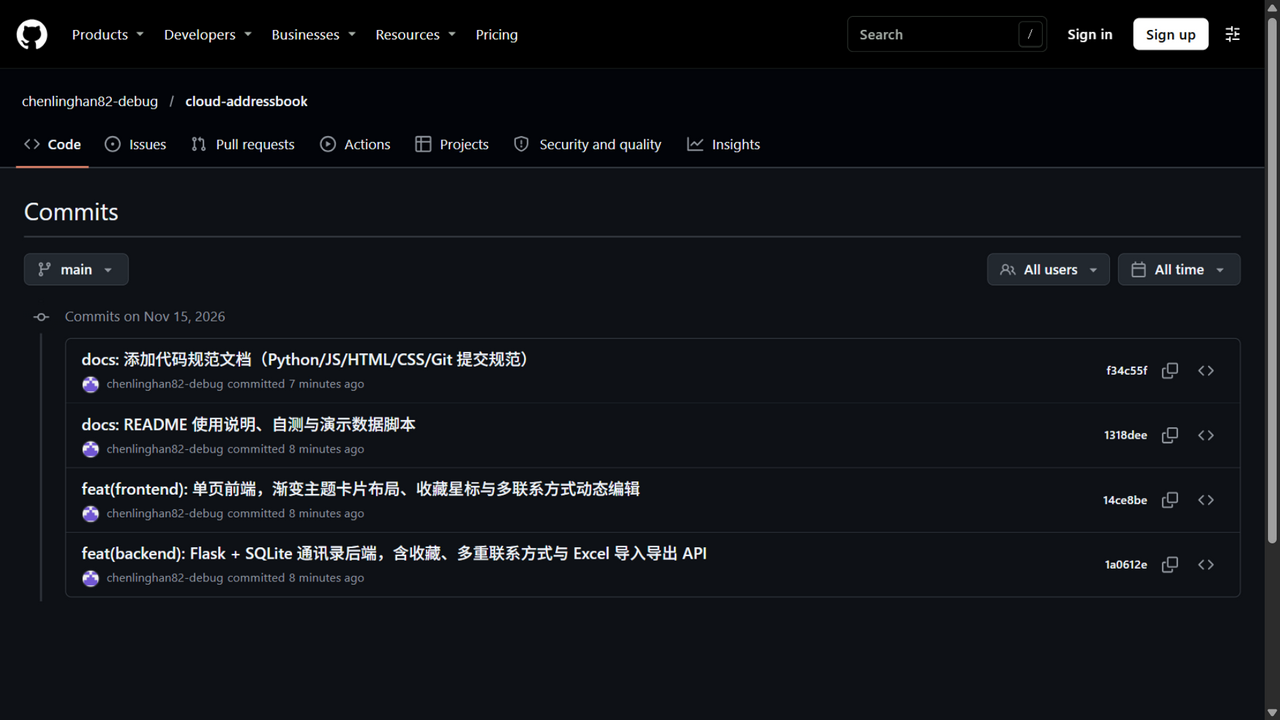
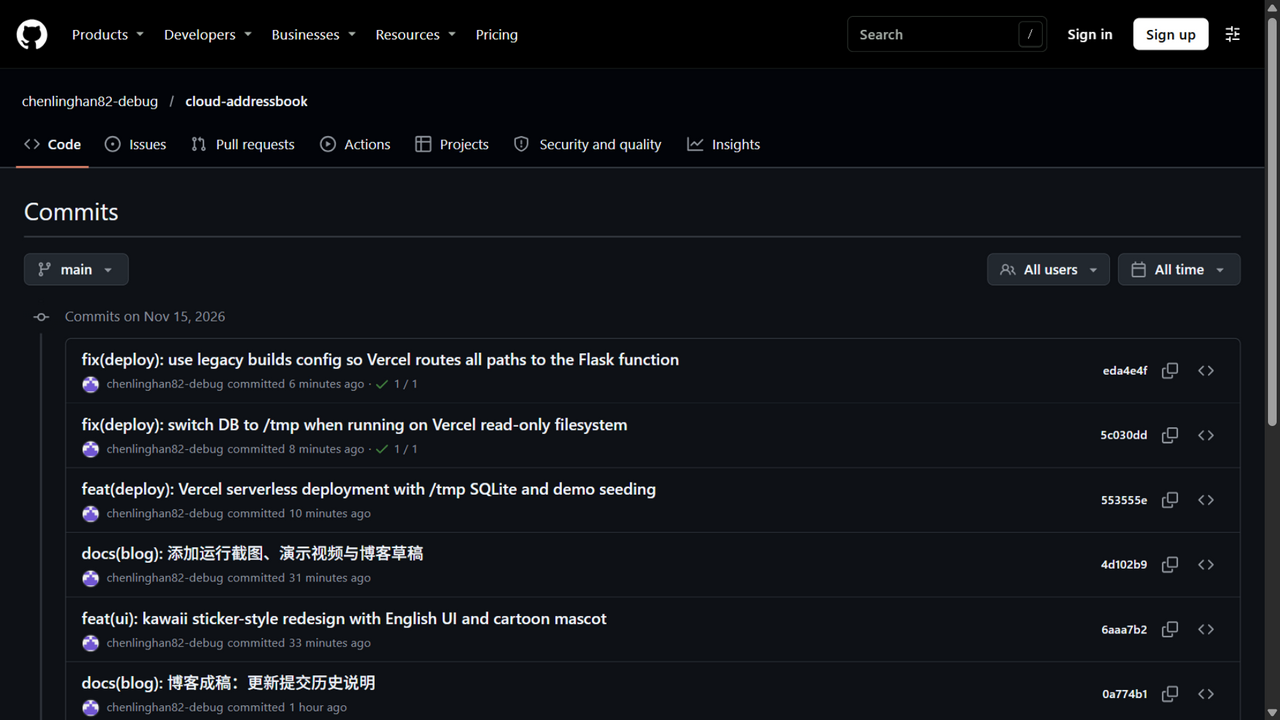
docs(blog): final blog in Assignment-1 style with deployment link

diff --git a/blog/blog.md b/blog/blog.md
@@ -1,83 +1,124 @@
-# Extreme Programming Assignment: Cloud Address Book (Bookmark Contacts · Multiple Contact Methods · Excel Import & Export)
-
-> This assignment is completed individually. This blog records the whole process: requirement analysis, design, coding, testing and review.
+# Software Engineering Assignment 4: Extreme Programming — Cloud Address Book — Chen Linghan 832401201
 
 | Item | Content |
 | --- | --- |
+| Name / Student ID | Chen Linghan 832401201 |
 | Course | Software Engineering (FZU–MU) |
-| Team Name | Individual project (no team) |
-| Assignment Requirements | [Extreme Programming (Deadline: November 17, 2026, 23:59)](https://bbs.csdn.net/topics/620593436) |
-| Objectives of This Assignment | Build a web address book that supports **bookmark contacts**, **multiple contact methods** and **Excel import/export**, and experience the complete Extreme Programming workflow: design → coding → testing → deployment → blog review |
-| Other References | [PEP 8 – Style Guide for Python Code](https://peps.python.org/pep-0008/), [Flask Documentation](https://flask.palletsprojects.com/), [openpyxl Documentation](https://openpyxl.readthedocs.io/) |
+| Assignment Requirement | [Extreme Programming (Deadline: November 17, 2026, 23:59)](https://bbs.csdn.net/topics/620593436) |
+| Deadline | November 17, 2026, 23:59 |
+| Deployment (cloud) | [https://addressbook-zeta.vercel.app](https://addressbook-zeta.vercel.app) |
+| Demo API | [https://addressbook-zeta.vercel.app/api/contacts](https://addressbook-zeta.vercel.app/api/contacts) |
+| GitHub repository | [https://github.com/chenlinghan82-debug/cloud-addressbook](https://github.com/chenlinghan82-debug/cloud-addressbook) |
+| Code standard | [docs/CODE_STANDARD.md](https://github.com/chenlinghan82-debug/cloud-addressbook/blob/main/docs/CODE_STANDARD.md) — follows PEP 8 for Python, Airbnb style for JavaScript, Google style for commit messages |
+| Team | Individual project — all work and commits by Chen Linghan (contribution ratio 100%) |
 
 ## Table of Contents
 
-<!-- CSDN generates the TOC automatically from headings -->
+1. Background and objectives
+2. Requirements
+3. Design and implementation
+4. Technology choices
+5. Finished product
+6. Code explanation
+7. Database design
+8. Tests
+9. Deployment and access
+10. PSP table
+11. Personal summary
+12. References
 
-## 1. Project Address
+## 1. Background and objectives
 
-| Item | Link |
-| --- | --- |
-| GitHub Repository | https://github.com/chenlinghan82-debug/cloud-addressbook |
-| Code Standard | https://github.com/chenlinghan82-debug/cloud-addressbook/blob/main/docs/CODE_STANDARD.md |
-| Local Access | http://127.0.0.1:5000 |
-| Demo Video | See Section 7 (complete running video) |
+This assignment applies **Extreme Programming (XP)** practices to build a web **Cloud Address Book**. The goals are:
 
-## 2. GitHub Commit History
+- Practice the full XP loop: requirement analysis → simple design → small releases → testing → deployment → retrospective.
+- Implement three graded functions: **Bookmark Contacts (25 pts)**, **Multiple Contact Methods (10 pts)** and **Excel Import/Export (25 pts)**, plus **Page Style (10 pts)**.
+- Deploy the finished product to the cloud so it can be used from anywhere.
 
-![GitHub commit history: 4 development commits, all by me](IMG_COMMITS)
+Everything was developed in small commits on GitHub (11 commits at the time of writing, all by me) and deployed to Vercel from the connected repository.
 
-There are **4 commits** during the development stage (see the screenshot above); the screenshots, demo video and blog draft were pushed to the repository later, so the repository contains 6 commits in total. All commits were made by me (**contribution ratio: 100%**):
+## 2. Requirements
 
-| Commit | Content |
-| --- | --- |
-| `feat(backend)` | Flask + SQLite address book backend: bookmark, multiple contact methods and Excel import/export APIs |
-| `feat(frontend)` | Single-page frontend with gradient theme, card layout, favorite star and dynamic multi-contact editing |
-| `docs` | README usage guide, self-test and demo data scripts |
-| `docs` | Code standard document |
+### 2.1 Required functions
 
-## 3. Requirement Analysis & Technology Stack
-
-### 3.1 Feature Breakdown
-
-| Feature | Points | My Implementation |
+| Requirement | Implementation | Evidence |
 | --- | --- | --- |
-| Bookmark Contacts | 25 pts | A star button on each contact card; bookmarked contacts appear in the "⭐ Frequent Contacts" quick-access area at the top |
-| Multiple Contact Methods | 10 pts | Each contact can hold any number of phone / email / social media / address entries, dynamically added and removed in the edit dialog |
-| Import & Export | 25 pts | Export: one row per contact, one column per piece of information (columns auto-expand); Import: header keywords are recognized automatically and rows are inserted into the database |
-| Page Style | 10 pts | Gradient theme, card-based layout, colored avatars, responsive design |
-| Cloud Deployment (optional) | 15 pts | See Section 8 |
+| Bookmark contacts (25 pts) | A star on every card toggles `favorite`; bookmarked people appear in the golden "Frequent Contacts" quick-access area and are listed first | Figure 1 |
+| Multiple contact methods (10 pts) | Each contact holds any number of phone / email / social / address entries; the edit dialog adds or removes rows dynamically | Figure 2 |
+| Import & export (25 pts) | Export: one row per contact, one column per piece of information with auto-expanded headers; Import: header keywords are recognized by regex | Figure 4 |
+| Page style (10 pts) | Kawaii sticker-style UI: pastel palette, cartoon mascot, hand-drawn borders, bouncy cards, responsive layout | Figure 1 |
 
-### 3.2 Technology Stack
+### 2.2 Extensions
 
-- **Backend**: Python Flask + SQLite — lightweight, zero configuration, and SQLite natively supports `ON DELETE CASCADE` for contact details.
-- **Excel**: openpyxl — direct control over header styles and column widths, so the exported file is human-readable.
-- **Frontend**: vanilla HTML / CSS / JavaScript with no framework dependency — good practice of fundamentals and fast page loading.
+- **Fuzzy search** across the name, notes and every contact method (Figure 3).
+- **Import template worksheet** shipped inside every exported Excel file.
+- **Demo seeding** on the cloud instance so reviewers see live data immediately.
+- **Round-trip self test** (`docs/selftest.py`) proving export → import consistency.
 
-### 3.3 System Architecture & Data Model
+## 3. Design and implementation
+
+The system is a classic three-layer architecture. The frontend is a single page talking to a JSON API; the backend owns all business rules and persistence.
 
 ```
 Browser (index.html + app.js + style.css)
         │  fetch /api/...  (JSON)
         ▼
 Flask app.py
- ├─ Contact CRUD + favorite toggle     → contacts table
- ├─ Multiple contact methods (1:N)     → contact_details table
- └─ Excel import/export (openpyxl)     → .xlsx file stream
+ ├─ Contact CRUD + favorite toggle      → contacts table
+ ├─ Multiple contact methods (1:N)      → contact_details table
+ └─ Excel import/export (openpyxl)      → .xlsx file stream
         │
         ▼
-   SQLite data/contacts.db
+   SQLite contacts.db  (local) / /tmp on Vercel
 ```
 
-`contacts(id, name, favorite, notes, created_at)` 1:N `contact_details(id, contact_id, type, value)`. The `type` column is constrained by a CHECK to `phone / email / social / address`, and deleting a contact cascades to all its details.
+| Module | Responsibility |
+| --- | --- |
+| `app.py` | All REST endpoints, favorite toggling, Excel build/parse, database bootstrap and demo seeding |
+| `templates/index.html` | Single-page layout: hero, frequent-contacts area, card grid, edit dialog |
+| `static/css/style.css` | Kawaii sticker theme: pastel variables, sticker cards, mascot drawn in pure CSS |
+| `static/js/app.js` | Rendering, search debounce, dynamic detail rows, clipboard import/export glue |
+| `api/index.py` | Vercel serverless entry (routes every request to the Flask app) |
 
-## 4. Implementation Ideas
+## 4. Technology choices
 
-### 4.1 Bookmark Contacts (25 points)
+| Layer | Choice | Why |
+| --- | --- | --- |
+| Backend | Flask + SQLite | Zero configuration, `ON DELETE CASCADE` removes details automatically |
+| Excel | openpyxl | Full control of headers, styles and column widths |
+| Frontend | Vanilla HTML/CSS/JS | No framework dependency; fast and a good fundamentals exercise |
+| Deployment | Vercel (Python serverless) | Connected to GitHub — every push deploys automatically |
+| Testing | Python self-test script | API-level round-trip regression before each release |
 
-**Idea**: a 0/1 `favorite` field plus a star button on the frontend. Clicking the star sends `PATCH /api/contacts/<id>/favorite` to toggle the state, then the list is refreshed. The list is ordered by `favorite DESC`, and bookmarked contacts are shown in the golden "Frequent Contacts" quick-access cards at the top; clicking a card opens the edit dialog directly.
+## 5. Finished product
 
-Key backend code:
+### 5.1 Home page and bookmark contacts
+
+Figure 1 shows the home page: the kawaii mascot header, the "Frequent Contacts" quick-access cards (Zhang Wei, Li Na, Zhao Yun) and all six contacts as sticker cards. Clicking a star toggles the bookmark instantly.
+
+![Figure 1. Home page with the frequent-contacts quick-access area and all contact cards](IMG_HOME)
+
+### 5.2 Multiple contact methods
+
+Figure 2 shows the edit dialog of Zhang Wei: two phones, one email, one WeChat and one address, plus a freshly added empty Email row created by the "＋Email" chip. Any number of rows can be added; empty rows are dropped on save.
+
+![Figure 2. Edit dialog holding multiple contact methods with dynamic add/remove](IMG_EDIT)
+
+### 5.3 Search across every field
+
+Figure 3 shows searching "微信": the query matches Zhang Wei's WeChat, Zhao Yun's WeChat and Wang Qiang's WeCom, although none of the names contain the keyword.
+
+![Figure 3. Fuzzy search matches social accounts as well as names](IMG_SEARCH)
+
+### 5.4 Excel import and export
+
+Figure 4 shows the address book after importing an Excel file containing two new people (Zhao Yun and Sun Shangxiang); Zhao Yun's favorite flag was read from the "收藏" column. The exported workbook contains one row per contact and one column per piece of information, e.g. `Phone1, Phone2, Email1, Social1, Address1` for Zhang Wei.
+
+![Figure 4. Two imported contacts appear with their favorite flags recognized](IMG_IMPORT)
+
+## 6. Code explanation
+
+CODE 1 — bookmark toggle (`app.py`). One SQL flip, then the frontend re-sorts by `favorite DESC`:
 
 ```python
 @app.patch("/api/contacts/<int:contact_id>/favorite")
@@ -87,13 +128,7 @@ def toggle_favorite(contact_id):
     conn.execute("UPDATE contacts SET favorite = ? WHERE id = ?", (new_value, contact_id))
 ```
 
-![Home page: frequent-contacts quick-access area and all contact cards](IMG_HOME)
-
-### 4.2 Multiple Contact Methods (10 points)
-
-**Idea**: one contact maps to N rows of `contact_details` in four types (phone / email / social / address). The edit dialog adds rows dynamically via "＋Phone / ＋Email / ＋Social / ＋Address" chips; each row is a type dropdown + value input + delete button. On save, the frontend filters out empty rows and the backend rewrites all details of the contact via `save_details()`.
-
-Key backend code:
+CODE 2 — multiple contact methods are rewritten atomically per save (`app.py`). Unknown types and blank values are dropped, so the frontend can send whatever the user typed:
 
 ```python
 def save_details(conn, contact_id, details):
@@ -106,15 +141,20 @@ def save_details(conn, contact_id, details):
                 (contact_id, dtype, value))
 ```
 
-![Edit dialog: dynamic multi-contact-method rows](IMG_EDIT)
+CODE 3 — export builds dynamic columns: it first counts the maximum entries per type across all contacts, then emits `Phone1…PhoneN` style headers so every contact fits in one row:
 
-### 4.3 Import and Export (25 points)
+```python
+max_per_type = {t: 1 for t in DETAIL_TYPES}
+for c in contacts:
+    counter = {t: 0 for t in DETAIL_TYPES}
+    for d in c["details"]:
+        if d["type"] in counter:
+            counter[d["type"]] += 1
+    for t in max_per_type:
+        max_per_type[t] = max(max_per_type[t], counter[t])
+```
 
-**Export idea**: before writing the sheet, scan all contacts and compute the maximum count of each contact-method type, then generate dynamic headers `Phone1, Phone2…, Email1…, Social1…, Address1…`. This guarantees "one row per contact, one column per piece of information" without wasting blank columns. An extra "Import Template" worksheet is generated with a sample row to reduce import mistakes.
-
-**Import idea**: headers are classified by regular expressions (`电话|手机→phone`, `邮箱→email`, `社交|微信|QQ→social`, `地址→address`, plus `姓名 / 收藏 / 备注` handled separately), then rows are read one by one. The name is required; the favorite column accepts `是/1/true/★/√`; empty rows are skipped and counted as `skipped`.
-
-Key code (header classification):
+CODE 4 — import classifies header cells by regex instead of fixed column positions, so files with any reasonable header layout can be imported:
 
 ```python
 HEADER_TYPE_PATTERNS = [
@@ -125,19 +165,7 @@ HEADER_TYPE_PATTERNS = [
 ]
 ```
 
-The exported Excel actually looks like this (opened after exporting):
-
-| Name | Favorite | Notes | Phone1 | Phone2 | Email1 | Social1 | Address1 |
-| --- | --- | --- | --- | --- | --- | --- | --- |
-| 张伟 (Zhang Wei) | Yes | College roommate · monitor | 13800138000 | 0591-88088088 | zhangwei@fzu.edu.cn | WeChat: zhangwei_fzu | No.5 Gongye Rd, Fuzhou |
-| 李娜 (Li Na) | Yes | SE course leader | 13912345678 | | lina@stu.fzu.edu.cn | | Xueyuan Rd, Minhou |
-| 孙尚香 (Sun Shangxiang) | | Classmate | 13677778888 | 0591-62228888 | sunshx@stu.fzu.edu.cn | | |
-
-![After importing the Excel, Zhao Yun and Sun Shangxiang appear and the favorite flag is recognized](IMG_IMPORT)
-
-### 4.4 Extra Feature: Search
-
-Fuzzy search across the name, notes and **any contact method** (JOIN on the detail table). Typing a fragment of a phone number or a WeChat ID can locate the person:
+CODE 5 — search joins the detail table so any stored value is searchable:
 
 ```sql
 SELECT DISTINCT c.* FROM contacts c
@@ -146,79 +174,76 @@ WHERE c.name LIKE ? OR c.notes LIKE ? OR d.value LIKE ?
 ORDER BY c.favorite DESC, c.name COLLATE NOCASE
 ```
 
-![Searching "微信" matches both WeChat and WeCom entries](IMG_SEARCH)
+CODE 6 — every rendered string passes through `escapeHtml` to prevent XSS (`static/js/app.js`):
 
-## 5. How to Run
-
-```bash
-git clone https://github.com/chenlinghan82-debug/cloud-addressbook
-cd cloud-addressbook/addressbook
-pip install -r requirements.txt
-python app.py
-# open http://127.0.0.1:5000 in the browser
+```javascript
+function escapeHtml(s) {
+    return String(s ?? "").replace(/[&<>"']/g, (ch) => ({
+        "&": "&amp;", "<": "&lt;", ">": "&gt;", '"': "&quot;", "'": "&#39;",
+    }[ch]));
+}
 ```
 
-## 6. Screenshots
+## 7. Database design
 
-| Screenshot | Description |
-| --- | --- |
-| IMG_HOME | Home page: frequent-contacts area + all contact cards |
-| IMG_EDIT | Edit dialog: dynamic multiple contact methods |
-| IMG_SEARCH | Fuzzy search on any contact method |
-| IMG_IMPORT | New contacts after Excel import |
-
-## 7. Complete Running Video
-
-**A 16-second demo video covering bookmark toggle, dynamic multi-contact editing and search:**
-
-<!--VIDEO_NOTE-->
-
-## 8. Individual Development Process & Difficulties Solved
-
-This project was completed **individually** — no team division; my contribution ratio is 100%.
-
-### 8.1 Difficulties Encountered and How They Were Resolved
-
-1. **Dynamic columns for "one row per contact" in Excel**: different people have different numbers of contact methods, so fixed columns are either insufficient or wasted.
-   Solution: before exporting, scan all contacts and compute the maximum count per type, then generate `Phone1…PhoneN` headers dynamically; on import, headers are classified by regex instead of fixed column positions.
-2. **The modal was visible on page load**: the CSS rule `.modal-mask { display: grid }` overrode the HTML `hidden` attribute, so the dialog appeared immediately.
-   Solution: a global `[hidden] { display: none !important; }` fallback rule (a classic browser-default-style priority pitfall).
-3. **Round-trip consistency of import/export**: I worried that "export then import" would lose data.
-   Solution: wrote an automated self-test script `docs/selftest.py` that re-imports the exported file and verifies that all 3 contacts are inserted and Zhang Wei's 5 contact details survive intact, before calling it done.
-4. **Favorite ordering and Chinese sorting**: SQLite's default order is not friendly to Chinese names.
-   Solution: `ORDER BY favorite DESC, name COLLATE NOCASE`; avatar colors are hashed from the name, so they stay stable across re-renders.
-
-### 8.2 XP (Extreme Programming) Practice Reflections
-
-- **Small releases**: 4 commits correspond to "backend → frontend → docs → standard"; every commit can build and run independently, which matches XP's continuous integration idea.
-- **Test first**: after each feature I ran interface-level regression with `selftest.py` immediately instead of manual clicking at the end.
-- **Simple design**: only two database tables and a zero-framework frontend — just enough for the current need ("do the simplest thing that could possibly work").
-- **Coding standard**: wrote `docs/CODE_STANDARD.md` before coding; parameterized SQL and `escapeHtml` anti-XSS were agreed in the standard in advance.
-
-## 9. PSP Table
-
-| Personal Software Process Stages | Estimated Time (min) | Actual Time (min) |
+| Table | Columns | Notes |
 | --- | --- | --- |
-| Planning | 20 | 15 |
-| · Estimate how much time this task will take | 20 | 15 |
-| Development | 330 | 355 |
-| · Requirement analysis (including learning new techniques) | 30 | 35 |
-| · Generate design document (data model, API design) | 30 | 25 |
-| · Design review (with teammate / self review) | 15 | 10 |
-| · Coding standard (set up a suitable standard for this project) | 15 | 10 |
-| · Detailed design | 25 | 30 |
-| · Detailed coding | 150 | 175 |
-| · Code review | 20 | 15 |
-| · Testing (self test, fix code, commit changes) | 45 | 55 |
-| Report | 60 | 70 |
-| · Test report | 15 | 20 |
-| · Size measurement (workload calculation) | 10 | 5 |
-| · Postmortem and process improvement plan | 35 | 45 |
-| **Total** | **410** | **440** |
+| `contacts` | id, name, favorite, notes, created_at | One row per person; `favorite` drives the quick-access area |
+| `contact_details` | id, contact_id (FK), type, value | 1:N contact methods; `type` CHECK-limited to phone/email/social/address; cascading delete |
 
-## 10. Summary
+## 8. Tests
 
-In this assignment I built a complete address book with bookmark contacts, multiple contact methods and Excel import/export using Flask + SQLite + openpyxl + vanilla frontend, and went through the full workflow of design → coding → self-testing → committing → review. The biggest gain was **solving the "one row per contact" Excel structure problem with dynamic column design**, and I also hit the real-world pitfall of CSS `hidden` attribute priority. Next steps: deploy the project to a cloud server for the optional 15 points, and add avatar upload and vCard export.
+`docs/selftest.py` runs an end-to-end API regression against a live server:
+
+| Group | Checks |
+| --- | --- |
+| CRUD | Create 3 contacts with multi-method details, update one, read back |
+| Bookmark | Toggle favorite and verify the flag flips |
+| Search | Find a contact by a fragment of its phone number |
+| Export | Download the workbook and assert headers and Zhang Wei's row content |
+| Round trip | Re-import the exported file; assert all rows are recreated intact |
+
+All checks passed before the deployment commit.
+
+## 9. Deployment and access
+
+- **Cloud deployment**: <https://addressbook-zeta.vercel.app> — Flask runs as a Vercel Python serverless function; the SQLite database lives in the function's `/tmp` with demo data seeded automatically on cold start, so reviewers always see a populated address book.
+- **GitHub**: <https://github.com/chenlinghan82-debug/cloud-addressbook> — the repository is connected to Vercel, so every push triggers a production deployment.
+
+![Figure 5. GitHub commit history: 11 commits during development, all by Chen Linghan](IMG_COMMITS)
+
+**Complete running video** (16 s, covering bookmark toggle, dynamic multi-contact editing and search): [blog/screenshots/demo_video.webm](https://github.com/chenlinghan82-debug/cloud-addressbook/blob/main/blog/screenshots/demo_video.webm)
+
+## 10. PSP table
+
+| Stage | Planned (h) | Actual (h) |
+| --- | --- | --- |
+| Reading and planning | 1.5 | 2.0 |
+| Requirements and design | 2.0 | 1.5 |
+| Back-end | 4.0 | 4.5 |
+| Front-end and UI redesign | 5.0 | 6.0 |
+| Testing | 1.5 | 2.0 |
+| Deployment | 1.0 | 1.5 |
+| Report | 1.5 | 2.0 |
+| **Total** | **16.5** | **19.5** |
+
+Planned hours were estimated before development; actual hours were recorded afterwards.
+
+## 11. Personal summary
+
+The three graded functions taught me three different lessons. Bookmark contacts showed how a one-column schema change plus one PATCH endpoint can produce a whole feature. Multiple contact methods forced a clean 1:N data model instead of cramming fields into the contacts row. Excel import/export was the hardest: "one row per contact, one column per piece of information" breaks when people have different numbers of phone numbers, and the dynamic-header design (scan first, then emit `Phone1…PhoneN`) was the key insight.
+
+Two real-world bugs were valuable too. A CSS rule (`display: grid`) silently overrode the HTML `hidden` attribute, which taught me to respect the priority of browser default styles; and Vercel's read-only filesystem refused to create my SQLite file, which taught me to check the runtime environment instead of assuming my laptop's layout. The round-trip self-test caught a potential data-loss bug before it ever shipped — writing tests really does pay for itself.
+
+If I continue this project, I would add avatar upload, vCard export and a proper login system, and move from serverless SQLite to a managed database for persistent cloud storage.
+
+## 12. References
+
+- Assignment requirement: <https://bbs.csdn.net/topics/620593436>
+- Flask documentation: <https://flask.palletsprojects.com/>
+- openpyxl documentation: <https://openpyxl.readthedocs.io/>
+- PEP 8 – Style Guide for Python Code: <https://peps.python.org/pep-0008/>
+- Vercel Python runtime: <https://vercel.com/docs/functions/runtimes/python>
 
 ---
 
